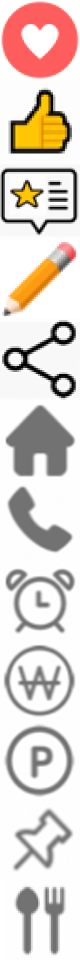
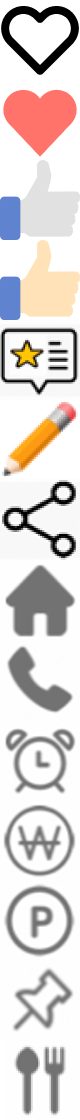
Feat: 찜/좋아요 클릭시 이미지 변경

diff --git a/templates/restaurant-detail.html b/templates/restaurant-detail.html
@@ -1,5 +1,5 @@
 {% extends "base.html" %} {% block title %}restaurant-detail{% endblock %} {%
-  block css %} <link href="/static/restaurant-detail.css" rel="stylesheet" /> {%
+  block css %} <link href="/static/restaurant-detail.css" rel="stylesheet" /> <script src="/static/restaurant-detail.js"></script> {%
   endblock %} {% block section %}
   <!-- topbar -->
   <section class="topbar">
@@ -26,18 +26,20 @@
         <img class="ratings" src="/static/ratings_4.png" />
       </div>
       <div class="buttons-container">
-        <button>
+        <button onclick="toggleFavoritesImage()">
           <img
             alt="favorites"
             src="/static/details.png"
-            style="object-position: 0 0px"
+            style="object-position: 0 0"
+            class="favorites"
           />
         </button>
-        <button>
+        <button onclick="toggleLikesImage()">
           <img
             alt="likes"
             src="/static/details.png"
-            style="object-position: 0 -30px"
+            style="object-position: 0 -60px"
+            class="likes"
           />
         </button>
         <a href="{{reviewlist_path}}">
@@ -45,7 +47,7 @@
           <img
             alt="see-reviews"
             src="/static/details.png"
-            style="object-position: 0 -60px"
+            style="object-position: 0 -120px"
           />
         </a>
         </button>
@@ -54,7 +56,7 @@
             <img
               alt="add-review"
               src="/static/details.png"
-              style="object-position: 0 -90px"
+              style="object-position: 0 -150px"
             />
           </button>
         </a>
@@ -62,7 +64,7 @@
           <img
             alt="share"
             src="/static/details.png"
-            style="object-position: 0 -120px"
+            style="object-position: 0 -180px"
           />
         </button>
       </div>
@@ -85,7 +87,7 @@
         <img
           alt="address"
           src="/static/details.png"
-          style="object-position: 0 -175px"
+          style="object-position: 0 -245px"
         />
         <h5>{{data.address}}</h5>
       </div>
@@ -93,7 +95,7 @@
         <img
           alt="phone-number"
           src="/static/details.png"
-          style="object-position: 0 -210px"
+          style="object-position: 0 -280px"
         />
         <h5>{{data.phonenum}}</h5>
         <button class="reservation">예약하기</button>
@@ -102,7 +104,7 @@
         <img
           alt="business-hours"
           src="/static/details.png"
-          style="object-position: 0 -245px"
+          style="object-position: 0 -315px"
         />
         <h5>영업 시간</h5>
       </div>
@@ -168,7 +170,7 @@
         <img
           alt="price-range"
           src="/static/details.png"
-          style="object-position: 0 -280px"
+          style="object-position: 0 -350px"
         />
         <h5>{{data.pricerange}}</h5>
       </div>
@@ -176,7 +178,7 @@
         <img
           alt="parking-availability"
           src="/static/details.png"
-          style="object-position: 0 -315px"
+          style="object-position: 0 -385px"
         />
         <h5>{{data.parking}}</h5>
       </div>
@@ -184,7 +186,7 @@
         <img
           alt="website"
           src="/static/details.png"
-          style="object-position: 0 -350px"
+          style="object-position: 0 -420px"
         />
         <h5>외부 사이트 링크</h5>
       </div>
@@ -192,7 +194,7 @@
         <img
           alt="menu"
           src="/static/details.png"
-          style="object-position: 0 -385px"
+          style="object-position: 0 -455px"
         />
         <h5>메뉴</h5>
       </div>

diff --git a/static/restaurant-detail.js b/static/restaurant-detail.js
@@ -1,0 +1,16 @@
+function toggleFavoritesImage() {
+  const objectPosition = document.getElementsByClassName("favorites")[0].style.objectPosition;
+  if(objectPosition === "0px")
+    document.getElementsByClassName("favorites")[0].style.objectPosition = "0 -30px";
+  else
+    document.getElementsByClassName("favorites")[0].style.objectPosition = "0 0";
+}
+
+function toggleLikesImage() {
+  const objectPosition = document.getElementsByClassName("likes")[0].style.objectPosition;
+  console.log(objectPosition);
+  if(objectPosition === "0px -60px")
+    document.getElementsByClassName("likes")[0].style.objectPosition = "0 -90px";
+  else
+    document.getElementsByClassName("likes")[0].style.objectPosition = "0px -60px";
+}

diff --git a/static/restaurant-detail.css b/static/restaurant-detail.css
@@ -161,7 +161,20 @@ body {
 
 .buttons-container {
   display: flex;
-  gap: 15px;
+  align-items: center;
+}
+
+.buttons-container button {
+  display: flex;
+  justify-content: center;
+  align-items: center;
+  margin: 0 10px;
+}
+
+.buttons-container a {
+  display: flex;
+  justify-content: center;
+  align-items: center;
 }
 
 .buttons-container button {
